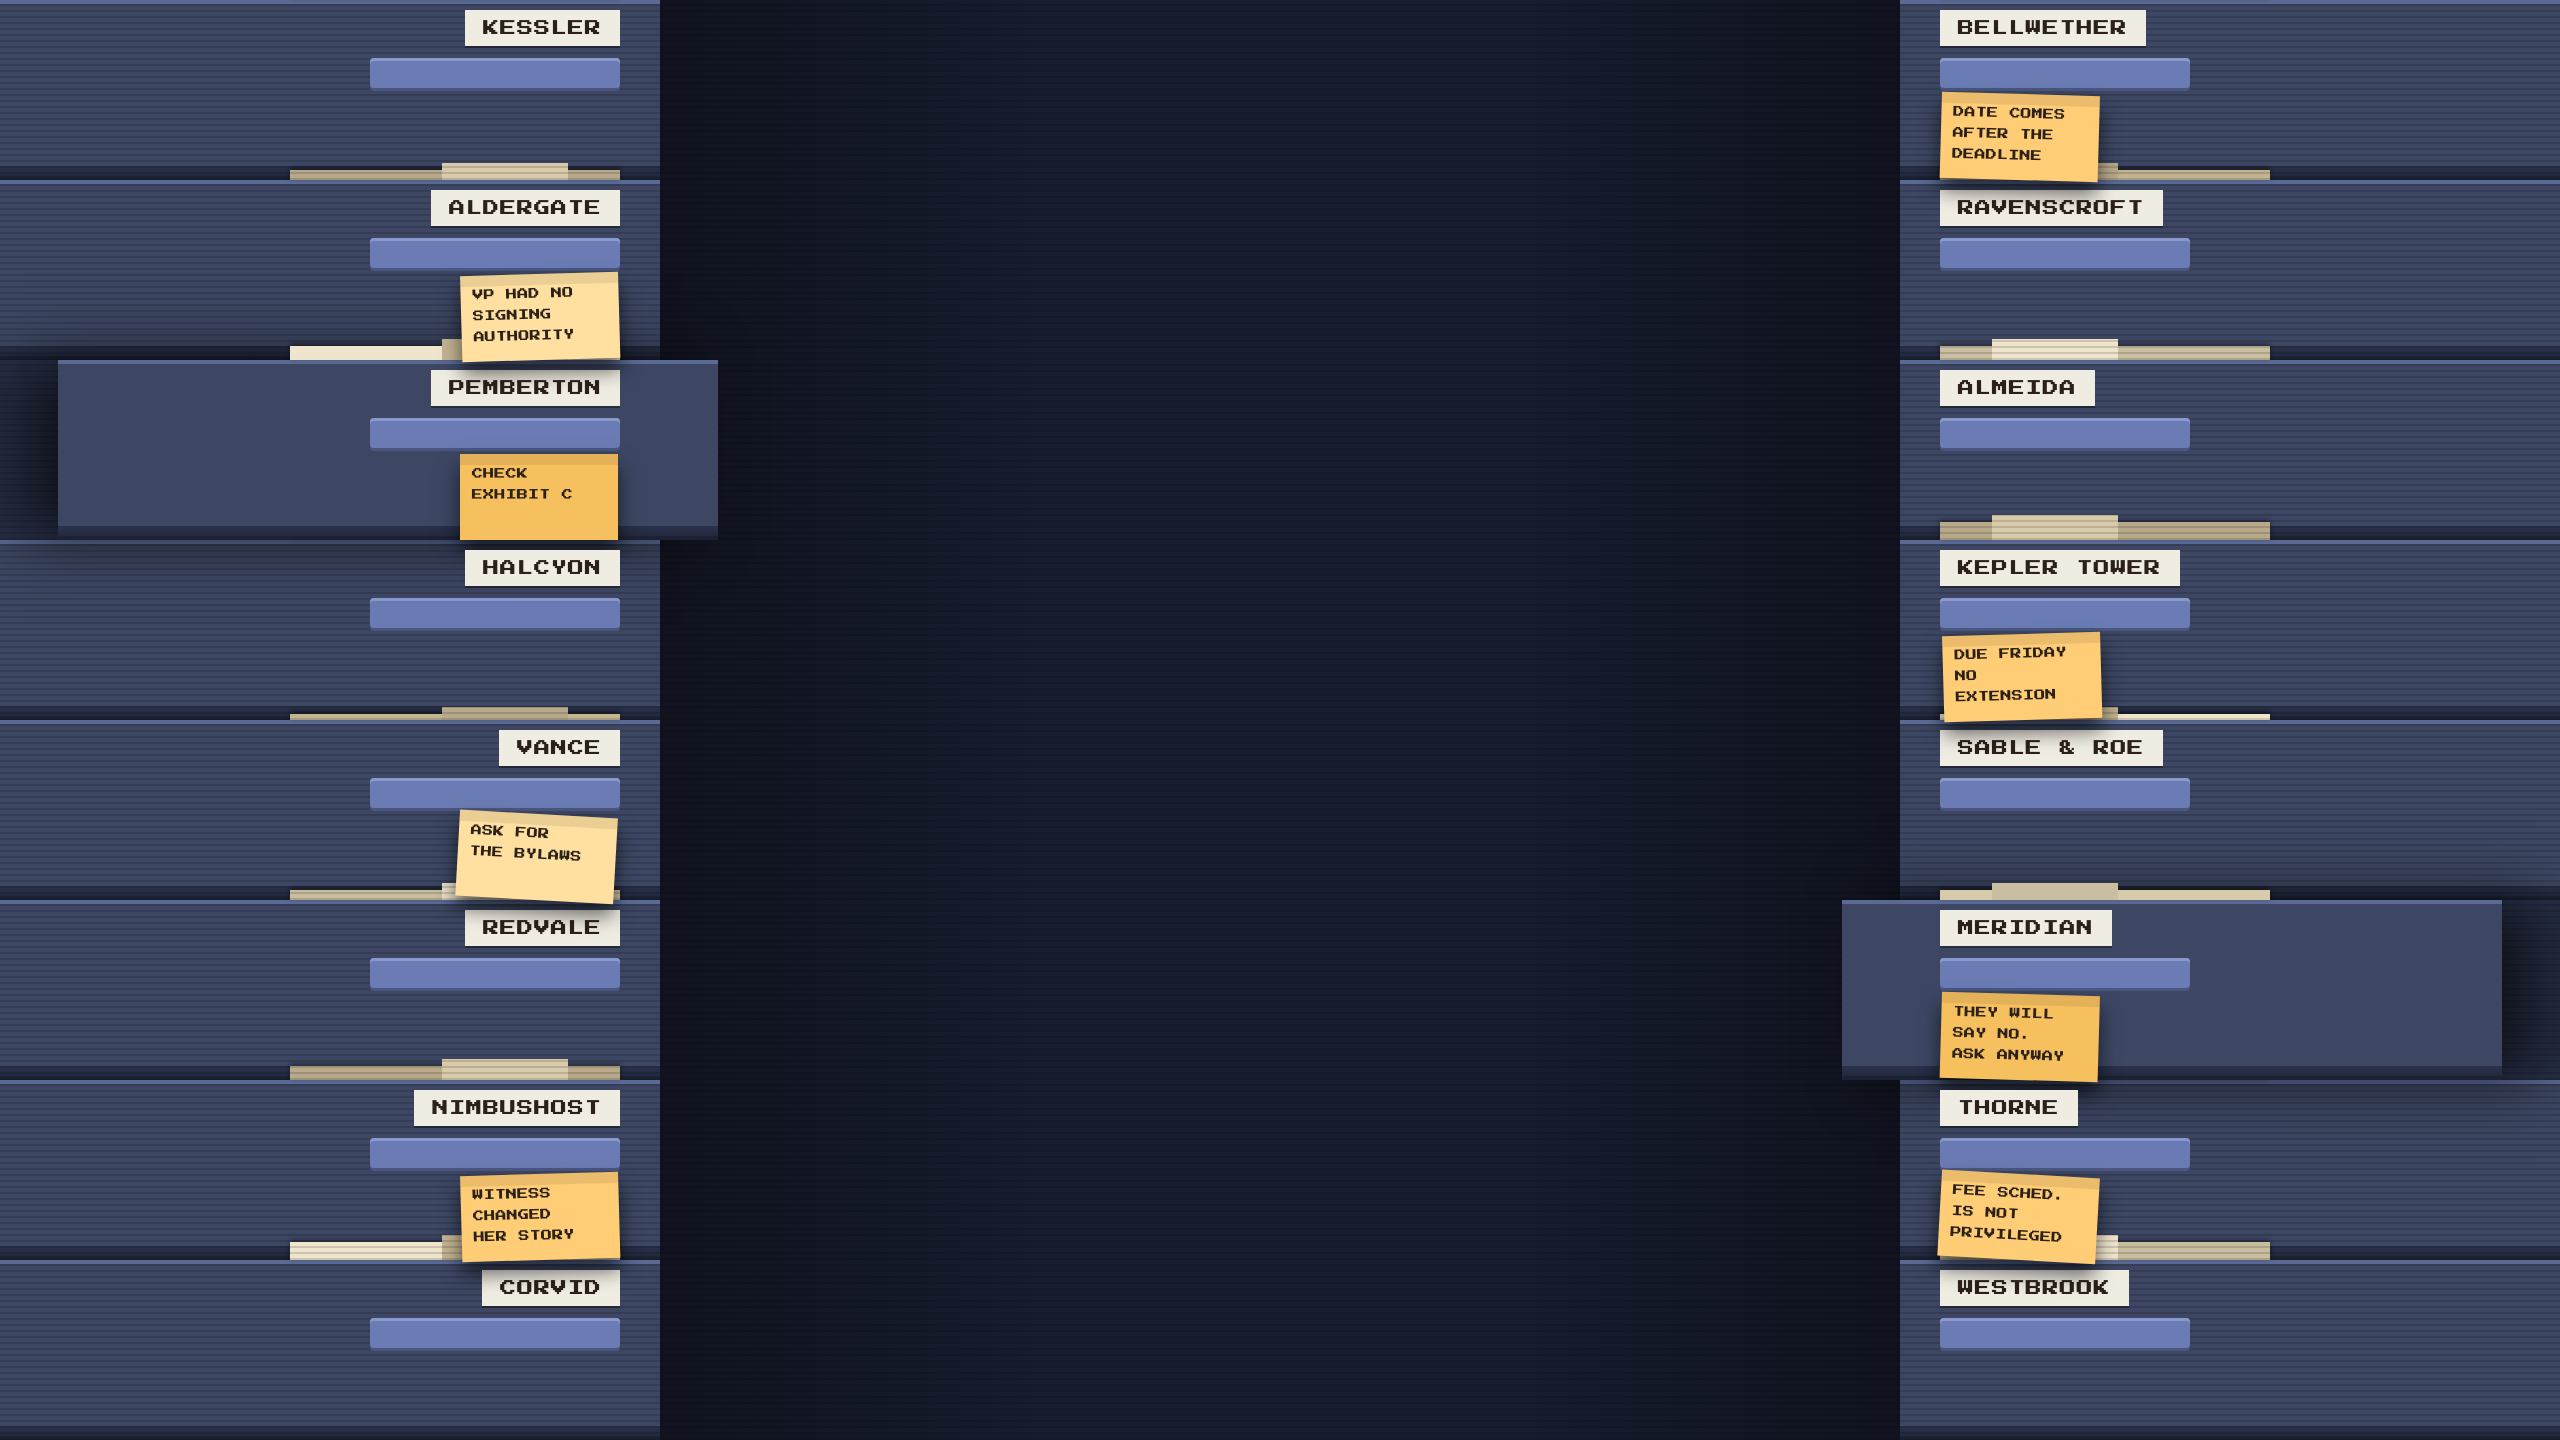
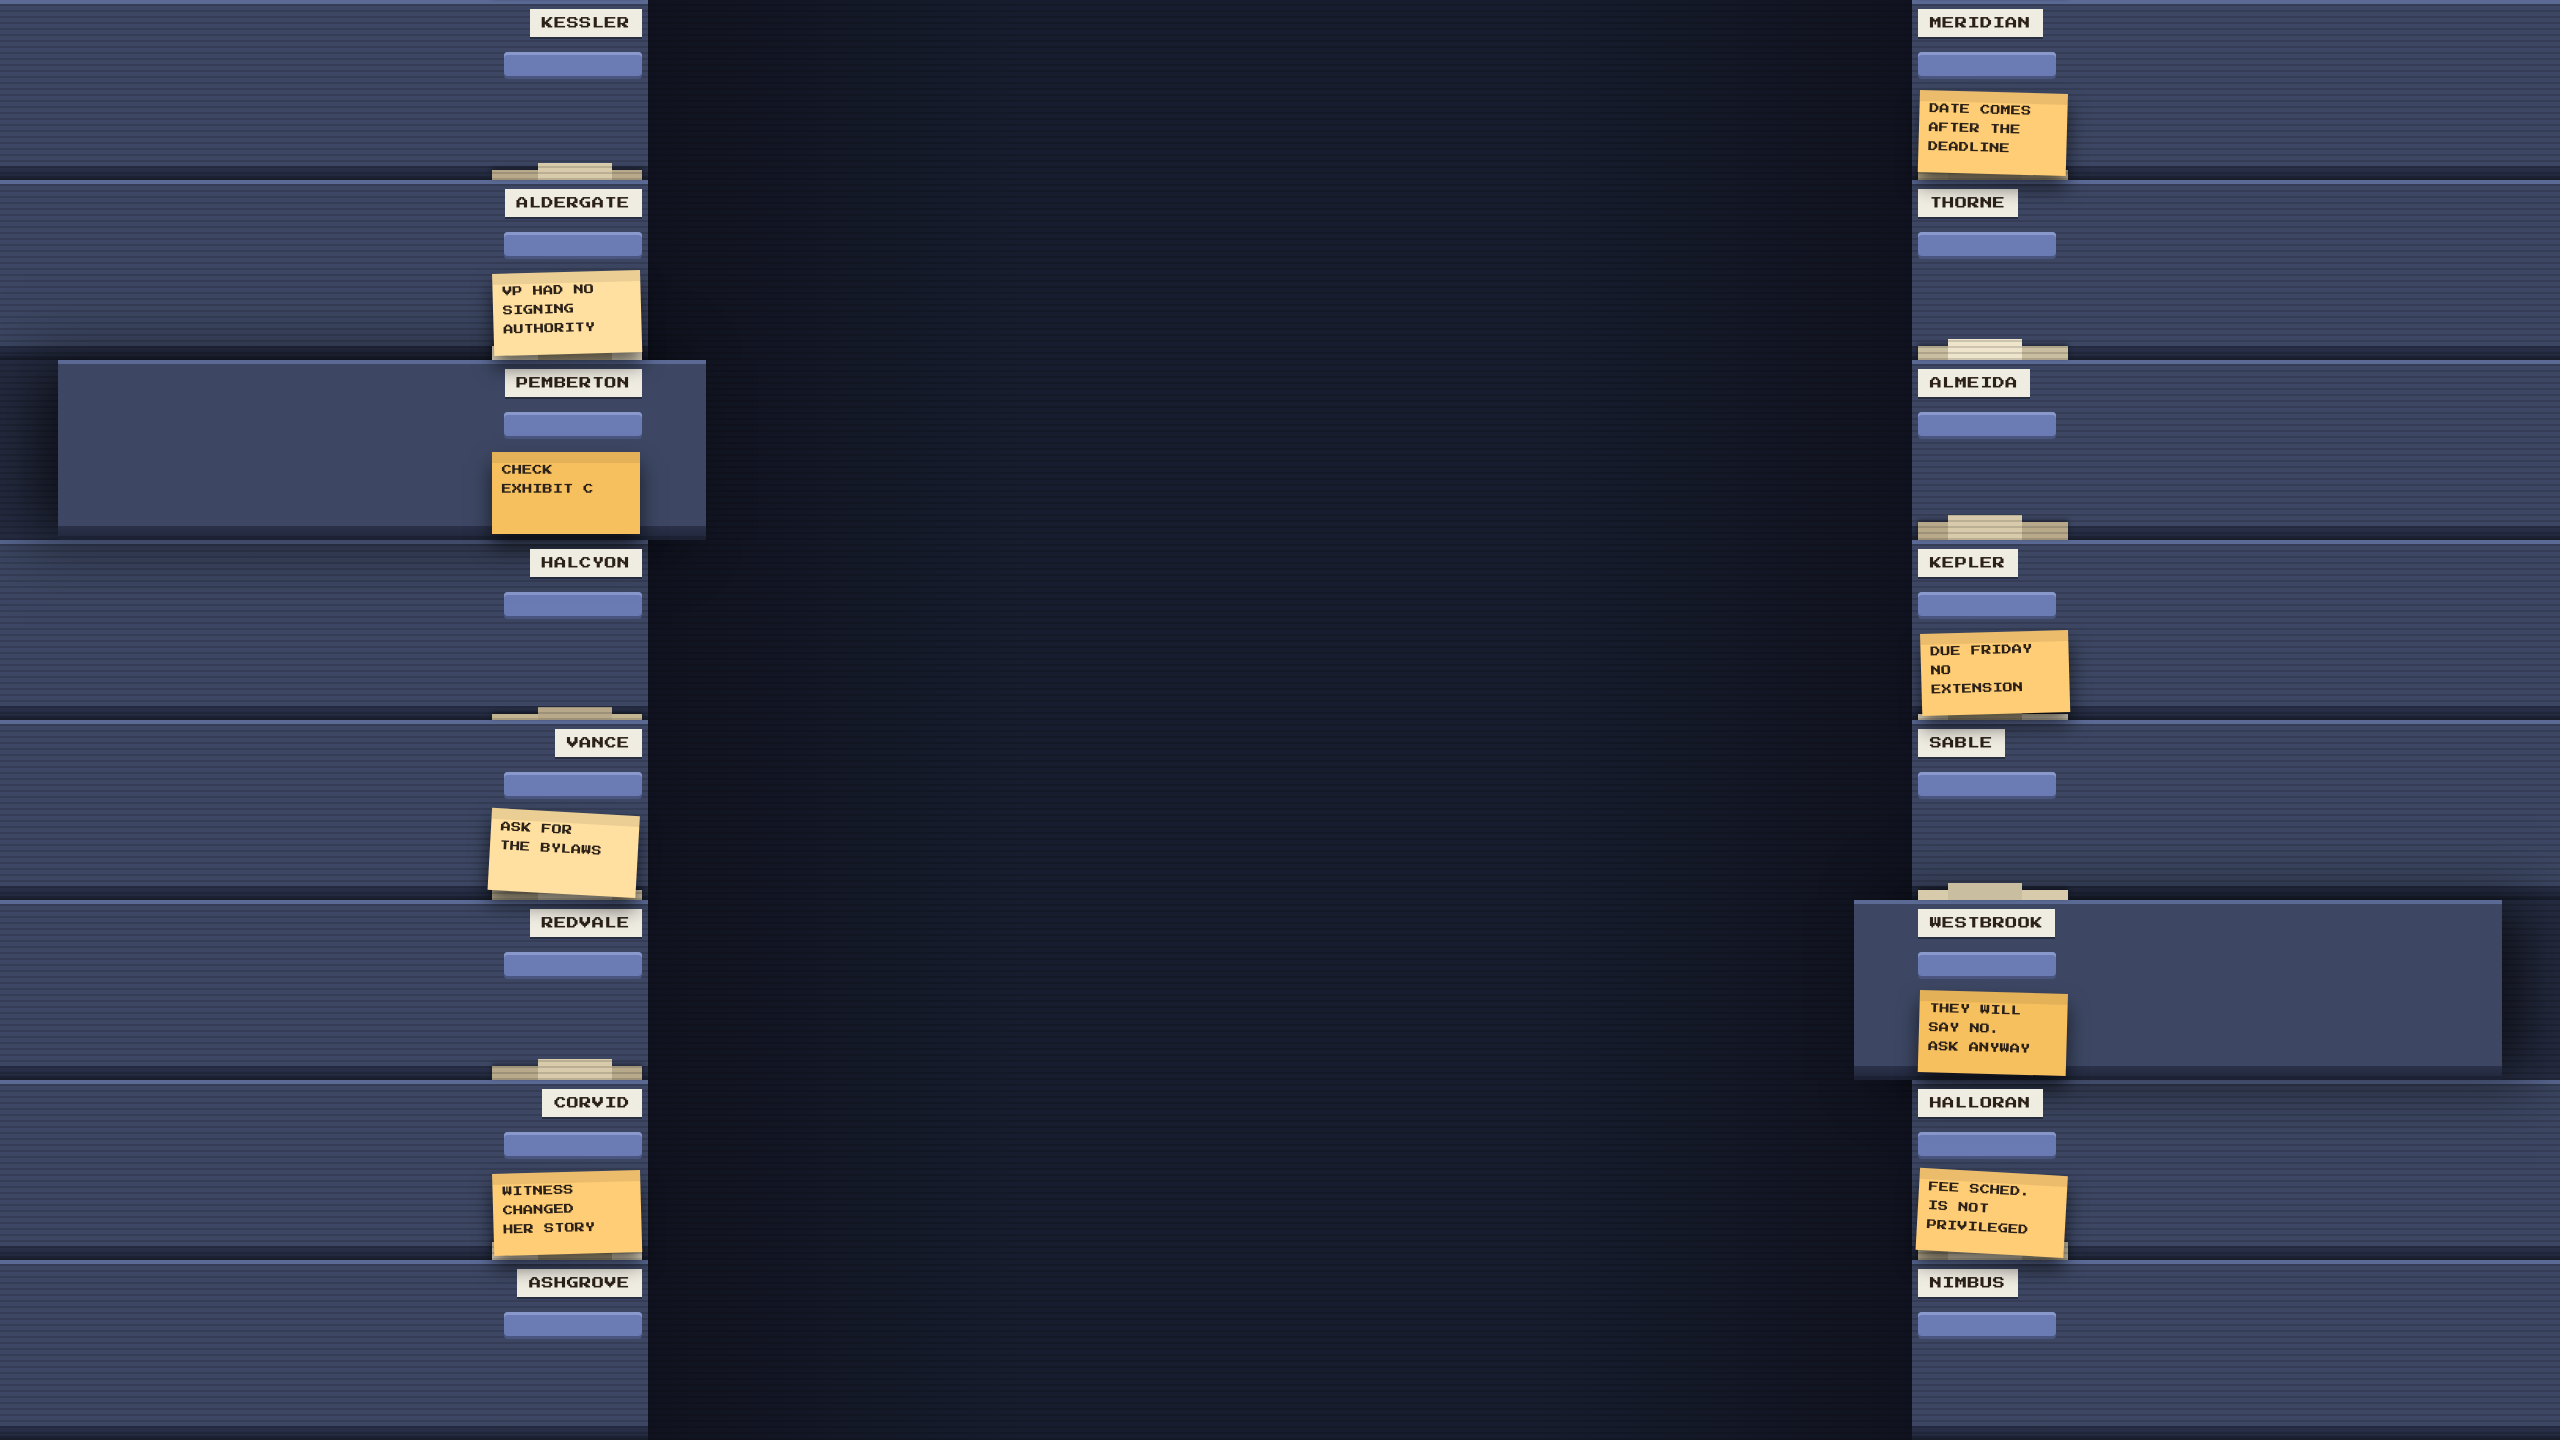
store: pin the cabinet content to the panel edge
On the live page the labels came out as SLER, GATE, RTON — cut from the outside
in. The background sits at natural size and is centred, so a window narrower
than 2560 crops the image equally at both ends, and everything I had put near
the cabinets' outer edges was in the part that gets cropped.

The geometry, measured rather than assumed: the panel is 1265 CSS px and never
changes, so it always covers image x 1280 +/- 633. A window V wide shows
1280 +/- V/2. The gutter is whatever is left between the two — about 230px at a
1730 window, and it shrinks as the window shrinks because the panel does not.

So the cabinet now runs out to exactly the panel's edge and everything in it
hugs that edge, at most 150px across: smaller labels, a shorter handle, a
narrower post-it, and drawer names short enough to fit. That holds down to about
a 1570 window, below which the gutter is narrower than any legible label anyway.

Changed region(s): [[0.7188, 0.0, 0.9062, 1.0], [0.0938, 0.0, 0.2812, 1.0]]

diff --git a/assets/store/ITCH.md b/assets/store/ITCH.md
@@ -107,12 +107,16 @@ something the art can be fixed to survive.
 
 Two other measurements matter and both were wrong in the first pages:
 
-- **The column is ~1250 CSS px, not 960.** itch puts the screenshots in a sub-column
-  inside the same white panel, so the panel is far wider than a text column. Measured
-  off the live page.
-- **The column is widest on the smallest screen** when the background is scaled,
-  because it is a fixed 960 (here 1250) CSS px against an image that shrinks with the
-  window.
+- **The panel is 1265 CSS px, not 960.** itch puts the screenshots in a sub-column
+  inside the same white panel, so it is far wider than a text column. Measured off
+  the live page.
+- **The gutter shrinks as the window shrinks, and the panel does not.** At natural
+  size the image is centred, so a window `V` wide shows image x `1280 ± V/2` while the
+  panel always covers `1280 ± 633`. The gutter is the difference: ~230px at a 1730
+  window, ~170px at 1600, nothing at all below ~1290.
+- **And it is cut from the outside in.** The first version put its labels at the
+  cabinet's outer edge, so a 1730 window ate the front of every word — KESSLER came
+  out as SLER. Everything now hugs the panel edge and is at most 150px wide.
 
 `scripts/store-cabinets.mjs` renders three variants built around all of this: a wall
 of drawers too full to sit flush, with post-its on some of them. The notes carry the
